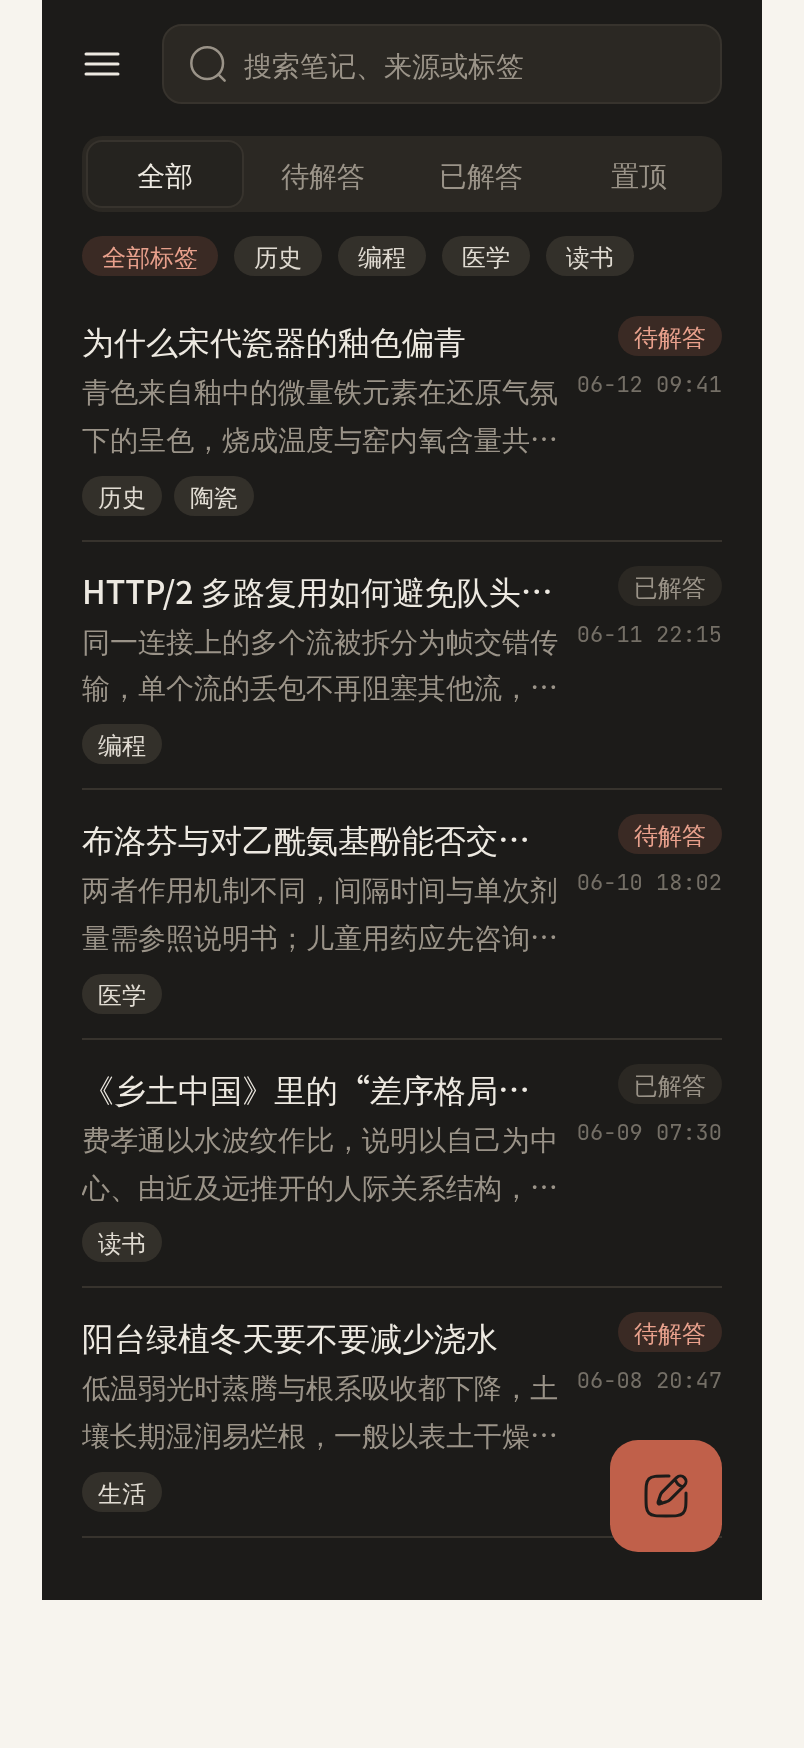
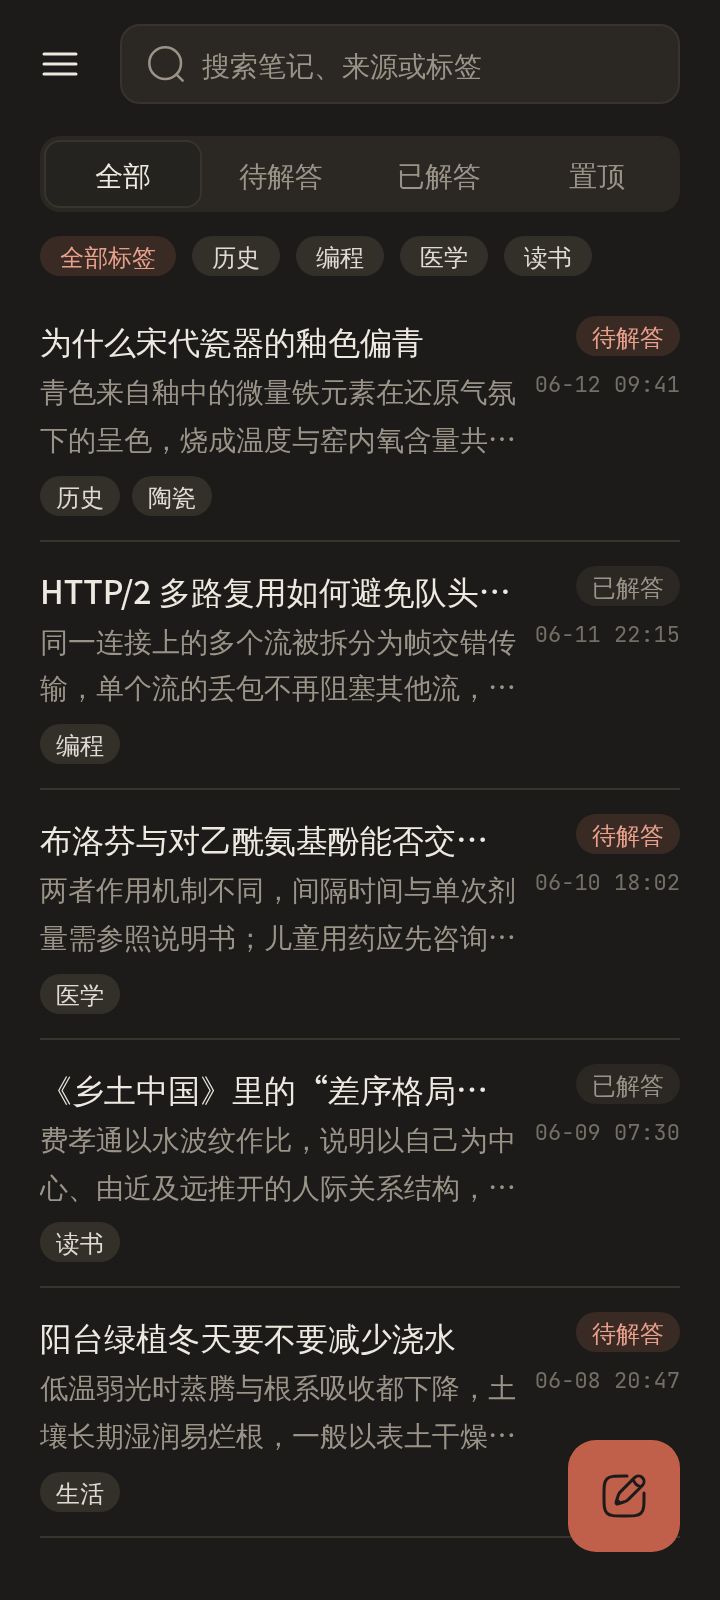
docs: fix screenshots and add bilingual README

diff --git a/README.md b/README.md
@@ -1,10 +1,14 @@
 # 记问 JiWen
 
 <p align="center">
-  <img src="design/icon/app_icon.png" width="96" alt="记问图标">
+  <img src="design/icon/app_icon.png" width="96" alt="JiWen icon">
 </p>
 
-<p align="center">一款完全离线的 Android 个人知识笔记应用，专注于「记录快、找得到、数据不丢」。</p>
+<p align="center">A fully offline Android notebook for personal knowledge — fast capture, Markdown editing, tags, Chinese full-text search, and local backups.</p>
+
+<p align="center">
+  <a href="README.md">English</a> | <a href="README.zh-CN.md">简体中文</a>
+</p>
 
 <p align="center">
   <img src="https://img.shields.io/badge/Flutter-3.47.9-02569B?logo=flutter&logoColor=white" alt="Flutter">
@@ -14,89 +18,87 @@
   <img src="https://img.shields.io/github/v/release/gyluq/JiWen?display_name=tag" alt="Release">
 </p>
 
-## 简介
+## Overview
 
-记问是一款单人自用的本地知识库。它解决手机自带便签的三个问题：**不能搜索、不能分类、不能导出**。
+JiWen is a single-user, local-first notebook for Android. It combines quick capture, Markdown editing and preview, tag-based organization, instant Chinese full-text search with highlighted hits, three list densities, a note outline, a recycle bin, statistics, and JSON / ZIP backup and export. Notes, images, and backups live in the app's private storage, and the app declares no network permission.
 
-所有笔记、标签、图片和备份都保存在应用私有目录中，应用不声明网络权限，也不依赖任何在线服务。核心价值排序为：记录快 > 找得到 > 数据不丢 > 好看。
+## Screenshots
 
-## 界面
-
-| 笔记列表 | 全文搜索 |
+| Note list | Full-text search |
 | --- | --- |
-| <img src="docs/screenshots/note-list.png" width="260" alt="笔记列表"> | <img src="docs/screenshots/search.png" width="260" alt="全文搜索"> |
-| 标题、摘要、标签、更新时间与「待解答 / 已解答」状态一屏可见，支持紧凑、标准、宽松三档密度。 | 支持中文子串搜索，命中片段高亮，并可组合标签、状态与时间范围筛选。 |
+| <img src="docs/screenshots/note-list.png" width="260" alt="Note list"> | <img src="docs/screenshots/search.png" width="260" alt="Full-text search"> |
+| Titles, summaries, tags, update time, and pending / answered status at a glance. Compact, standard, and relaxed densities. | Chinese substring search with highlighted hits, combined with tag, status, and time-range filters. |
 
-| 详情阅读 | Markdown 编辑 |
+| Note detail | Markdown editor |
 | --- | --- |
-| <img src="docs/screenshots/detail.png" width="260" alt="详情阅读"> | <img src="docs/screenshots/editor.png" width="260" alt="Markdown 编辑"> |
-| 统一渲染管线，代码块可复制，长文使用 Sliver 懒加载，并提供 H1~H3 大纲跳转。 | 工具栏覆盖标题、列表、代码块、加粗、斜体、图片与链接，支持撤销重做和编辑 / 预览切换。 |
+| <img src="docs/screenshots/detail.png" width="260" alt="Note detail"> | <img src="docs/screenshots/editor.png" width="260" alt="Markdown editor"> |
+| One rendering pipeline for reading, export, and preview. Long notes load lazily and an H1–H3 outline jumps between sections. | Toolbar for headings, lists, code blocks, bold, italic, images, and links, with undo / redo and an edit / preview toggle. |
 
 <p align="center">
-  <img src="docs/screenshots/note-list-dark.png" width="260" alt="深色模式">
+  <img src="docs/screenshots/note-list-dark.png" width="260" alt="Dark mode">
   <br>
-  深色模式
+  Dark mode
 </p>
 
-## 功能
+## Features
 
-| 模块 | 能力 |
+| Area | What it does |
 | --- | --- |
-| 记录 | 15 秒内完成一次记录；自动保存与进程被杀后的恢复；待解答 / 已解答状态；置顶与收藏 |
-| Markdown | H1~H3、有序 / 无序列表、代码块（等宽字体、横向滚动、一键复制）、加粗、斜体、链接、图片插入与全屏查看 |
-| 图片 | 相册选择或拍照，长边超过 1600px 自动压缩，删除笔记时清理无引用图片 |
-| 标签 | 标签增删改查，一条笔记可挂多个标签，标签页显示笔记数，删除标签不影响笔记 |
-| 检索 | 标题、正文、标签名全文搜索；中文词语中间截取也能命中；结果高亮；进入详情自动定位首个命中位置；最近 20 条搜索历史 |
-| 筛选与排序 | 标签 + 状态 + 时间范围组合筛选；按最近修改、创建时间或标题排序 |
-| 阅读 | 三档列表密度；笔记大纲（H1~H3 章节跳转与当前位置高亮）；深色模式；正文字号调节 |
-| 数据安全 | 回收站保留 30 天；每日首次启动或累计 50 次修改自动备份，保留最近 5 份；手动备份与恢复 |
-| 导入导出 | 单条笔记导出 Markdown；全部笔记导出 ZIP（含 `assets/` 图片）；JSON 全量备份与回导；粘贴文本按分隔符批量拆分导入；导入 `.txt` / `.md` 文件 |
-| 隐私 | 4~6 位 PIN 应用锁，可启用指纹 / 面容解锁；超时自动锁定；锁定时禁止截屏与最近任务缩略图 |
-| 其他 | 单条笔记 Markdown 分享；`[[标题]]` 内部链接跳转；统计面板（笔记总数、待解答数、标签分布） |
+| Capture | Save a note in seconds; autosave and draft recovery; pending / answered status; pin and favorite notes |
+| Markdown | H1–H3, ordered and unordered lists, code blocks (monospace, horizontal scroll, one-tap copy), bold, italic, links, image insertion and full-screen preview |
+| Images | Pick from the gallery or camera; images wider than 1600 px are compressed; unreferenced files are cleaned up when notes are deleted |
+| Tags | Create, rename, and delete tags; attach multiple tags to a note; tag list shows note counts; deleting a tag keeps its notes |
+| Search | Full-text search across titles, bodies, and tag names; Chinese substrings match even from the middle of a word; highlighted hits; opening a note jumps to the first hit; last 20 search terms are kept |
+| Filter and sort | Combine tag, status, and time range; sort by last modified, creation time, or title |
+| Reading | Three list densities; note outline with H1–H3 navigation and current-section highlight; dark mode; body font size levels |
+| Data safety | Recycle bin with 30-day retention; automatic backup on the first launch of a day or after 50 edits, keeping the latest 5; manual backup and restore |
+| Import and export | Export a note as Markdown; export all notes as a ZIP with an `assets/` folder; full JSON backup and restore; split pasted text into multiple notes by delimiter; import `.txt` / `.md` files |
+| Privacy | 4–6 digit PIN lock with optional fingerprint / face unlock; auto-lock timeout; screenshots and recent-task thumbnails blocked while locked |
+| Extras | Share a note as Markdown; `[[title]]` internal links; statistics for note count, pending notes, and tag distribution |
 
-## 技术栈
+## Tech stack
 
-| 层 | 选型 |
+| Layer | Choice |
 | --- | --- |
-| 框架 | Flutter 3.47.9 / Dart 3.13.7，Material 3 |
-| 存储 | `sqlite3` 本地数据库 + 应用私有目录文件存储 |
-| 图片 | `image_picker`、`path_provider` |
-| 导入导出 | `archive`（ZIP）、`file_picker`、`share_plus` |
-| 安全 | `local_auth`（生物识别）、`crypto`、`flutter_secure_storage` 风格的本地 PIN 校验 |
-| 其他 | `url_launcher`、`scrollable_positioned_list` |
+| Framework | Flutter 3.47.9 / Dart 3.13.7 |
+| Storage | `sqlite3` local database plus app-private file storage |
+| Images | `image_picker`, `path_provider` |
+| Import / export | `archive` (ZIP), `file_picker`, `share_plus` |
+| Security | `local_auth` (biometrics), `crypto` |
+| Other | `url_launcher`, `scrollable_positioned_list` |
 
-Markdown 解析、渲染与编辑逻辑均为项目内自研实现，位于 `lib/util/` 与 `lib/widgets/`。
+Markdown parsing, rendering, and editing are implemented in this repository under `lib/util/` and `lib/widgets/`.
 
-## 项目结构
+## Project layout
 
 ```text
 lib/
-├── data/          # 数据库、设置、附件、备份、导入导出、应用锁
-├── models/        # 笔记与标签模型
-├── screens/       # 列表、详情、编辑、搜索、标签、回收站、统计、设置等页面
-├── util/          # Markdown 解析与编辑、搜索高亮、文本导入、时间格式化
-├── widgets/       # 列表项、标签、Markdown 视图、操作面板
-└── theme.dart     # 共享配色与主题
-test/              # Markdown、搜索高亮、数据工具等单元测试
-design/            # 应用图标与 HTML 交互原型
-docs/screenshots/  # README 截图
+├── data/          # database, settings, attachments, backup, import/export, app lock
+├── models/        # note and tag models
+├── screens/       # list, detail, editor, search, tags, trash, statistics, settings
+├── util/          # Markdown parsing and editing, search highlighting, text import, time formatting
+├── widgets/       # list tiles, tag chips, Markdown view, action sheets
+└── theme.dart     # shared palette and theme
+test/              # unit tests for Markdown, search highlighting, and data tools
+design/            # app icon and HTML interaction prototype
+docs/screenshots/  # README screenshots
 ```
 
-## 构建与运行
+## Build and run
 
-环境要求：Flutter 3.47.9（stable）、Dart 3.13.7、Android SDK 36、JDK 17+。
+Requirements: Flutter 3.47.9 (stable), Dart 3.13.7, Android SDK 36, JDK 17 or newer.
 
 ```bash
 flutter pub get
-flutter run                 # 调试运行
-flutter test                # 单元测试
-flutter build apk --release # 产物：build/app/outputs/flutter-apk/app-release.apk
+flutter run                 # debug build on a device or emulator
+flutter test                # unit tests
+flutter build apk --release # output: build/app/outputs/flutter-apk/app-release.apk
 ```
 
-安装包可从 [Releases](https://github.com/gyluq/JiWen/releases) 下载。当前 release 构建沿用 Flutter 模板的 debug 签名，适合自用侧载；如需上架应用商店，请配置自己的 keystore。
+Installable builds are available on the [Releases](https://github.com/gyluq/JiWen/releases) page. Current release builds use the Flutter template's debug signing config, which is fine for personal side-loading; configure your own keystore before publishing to an app store.
 
-## 数据说明
+## Data and privacy
 
-- 数据库、图片与备份全部位于应用私有目录，卸载应用会一并清除，升级或卸载前请先导出备份。
-- 应用未声明 `INTERNET` 权限，不包含账号、云同步或任何在线服务。
-- 忘记 PIN 无法找回，只能重装后通过备份恢复。
+- The database, images, and backups live in the app's private storage. Uninstalling the app removes them, so export a backup before upgrading or uninstalling.
+- The app declares no `INTERNET` permission and contains no accounts, cloud sync, or online services.
+- A forgotten PIN cannot be recovered; reinstall the app and restore from a backup instead.

diff --git a/README.zh-CN.md b/README.zh-CN.md
@@ -1,0 +1,104 @@
+# 记问 JiWen
+
+<p align="center">
+  <img src="design/icon/app_icon.png" width="96" alt="记问图标">
+</p>
+
+<p align="center">一款完全离线的 Android 个人知识笔记应用：快速记录、Markdown 编辑、标签分类、中文全文搜索与本地备份。</p>
+
+<p align="center">
+  <a href="README.md">English</a> | <a href="README.zh-CN.md">简体中文</a>
+</p>
+
+<p align="center">
+  <img src="https://img.shields.io/badge/Flutter-3.47.9-02569B?logo=flutter&logoColor=white" alt="Flutter">
+  <img src="https://img.shields.io/badge/Dart-3.13.7-0175C2?logo=dart&logoColor=white" alt="Dart">
+  <img src="https://img.shields.io/badge/Android-7.0%2B-3DDC84?logo=android&logoColor=white" alt="Android">
+  <img src="https://img.shields.io/badge/Data-offline%20%C2%B7%20SQLite-8A5A3B" alt="Offline SQLite">
+  <img src="https://img.shields.io/github/v/release/gyluq/JiWen?display_name=tag" alt="Release">
+</p>
+
+## 简介
+
+记问是一款完全离线的 Android 个人知识笔记应用。它把快速记录、Markdown 编辑与预览、标签分类、中文全文搜索与高亮、三档列表密度、笔记大纲、回收站、统计，以及 JSON / ZIP 备份与 Markdown 导出集中在一个轻量应用里。笔记、图片与备份全部保存在应用私有目录，应用不声明网络权限。
+
+## 界面
+
+| 笔记列表 | 全文搜索 |
+| --- | --- |
+| <img src="docs/screenshots/note-list.png" width="260" alt="笔记列表"> | <img src="docs/screenshots/search.png" width="260" alt="全文搜索"> |
+| 标题、摘要、标签、更新时间与「待解答 / 已解答」状态一屏可见，支持紧凑、标准、宽松三档密度。 | 支持中文子串搜索与命中高亮，并可组合标签、状态与时间范围筛选。 |
+
+| 详情阅读 | Markdown 编辑 |
+| --- | --- |
+| <img src="docs/screenshots/detail.png" width="260" alt="详情阅读"> | <img src="docs/screenshots/editor.png" width="260" alt="Markdown 编辑"> |
+| 阅读、预览与导出共用同一套渲染管线；长文懒加载，并提供 H1~H3 大纲跳转。 | 工具栏覆盖标题、列表、代码块、加粗、斜体、图片与链接，支持撤销重做和编辑 / 预览切换。 |
+
+<p align="center">
+  <img src="docs/screenshots/note-list-dark.png" width="260" alt="深色模式">
+  <br>
+  深色模式
+</p>
+
+## 功能
+
+| 模块 | 能力 |
+| --- | --- |
+| 记录 | 几秒内完成一次记录；自动保存与进程被杀后的恢复；待解答 / 已解答状态；置顶与收藏 |
+| Markdown | H1~H3、有序 / 无序列表、代码块（等宽字体、横向滚动、一键复制）、加粗、斜体、链接、图片插入与全屏查看 |
+| 图片 | 相册选择或拍照，长边超过 1600px 自动压缩，删除笔记时清理无引用图片 |
+| 标签 | 标签增删改查，一条笔记可挂多个标签，标签页显示笔记数，删除标签不影响笔记 |
+| 检索 | 标题、正文、标签名全文搜索；中文词语中间截取也能命中；结果高亮；进入详情自动定位首个命中位置；保留最近 20 条搜索历史 |
+| 筛选与排序 | 标签 + 状态 + 时间范围组合筛选；按最近修改、创建时间或标题排序 |
+| 阅读 | 三档列表密度；笔记大纲（H1~H3 章节跳转与当前位置高亮）；深色模式；正文字号调节 |
+| 数据安全 | 回收站保留 30 天；每日首次启动或累计 50 次修改自动备份，保留最近 5 份；手动备份与恢复 |
+| 导入导出 | 单条笔记导出 Markdown；全部笔记导出 ZIP（含 `assets/` 图片）；JSON 全量备份与回导；粘贴文本按分隔符批量拆分导入；导入 `.txt` / `.md` 文件 |
+| 隐私 | 4~6 位 PIN 应用锁，可启用指纹 / 面容解锁；超时自动锁定；锁定时禁止截屏与最近任务缩略图 |
+| 其他 | 单条笔记 Markdown 分享；`[[标题]]` 内部链接跳转；统计面板（笔记总数、待解答数、标签分布） |
+
+## 技术栈
+
+| 层 | 选型 |
+| --- | --- |
+| 框架 | Flutter 3.47.9 / Dart 3.13.7 |
+| 存储 | `sqlite3` 本地数据库 + 应用私有目录文件存储 |
+| 图片 | `image_picker`、`path_provider` |
+| 导入导出 | `archive`（ZIP）、`file_picker`、`share_plus` |
+| 安全 | `local_auth`（生物识别）、`crypto` |
+| 其他 | `url_launcher`、`scrollable_positioned_list` |
+
+Markdown 解析、渲染与编辑逻辑均为项目内实现，位于 `lib/util/` 与 `lib/widgets/`。
+
+## 项目结构
+
+```text
+lib/
+├── data/          # 数据库、设置、附件、备份、导入导出、应用锁
+├── models/        # 笔记与标签模型
+├── screens/       # 列表、详情、编辑、搜索、标签、回收站、统计、设置等页面
+├── util/          # Markdown 解析与编辑、搜索高亮、文本导入、时间格式化
+├── widgets/       # 列表项、标签、Markdown 视图、操作面板
+└── theme.dart     # 共享配色与主题
+test/              # Markdown、搜索高亮、数据工具等单元测试
+design/            # 应用图标与 HTML 交互原型
+docs/screenshots/  # README 截图
+```
+
+## 构建与运行
+
+环境要求：Flutter 3.47.9（stable）、Dart 3.13.7、Android SDK 36、JDK 17 或更高版本。
+
+```bash
+flutter pub get
+flutter run                 # 在真机或模拟器上调试运行
+flutter test                # 单元测试
+flutter build apk --release # 产物：build/app/outputs/flutter-apk/app-release.apk
+```
+
+安装包可从 [Releases](https://github.com/gyluq/JiWen/releases) 下载。当前 release 构建沿用 Flutter 模板的 debug 签名，适合自用侧载；如需上架应用商店，请配置自己的 keystore。
+
+## 数据说明
+
+- 数据库、图片与备份全部位于应用私有目录，卸载应用会一并清除，升级或卸载前请先导出备份。
+- 应用未声明 `INTERNET` 权限，不包含账号、云同步或任何在线服务。
+- 忘记 PIN 无法找回，只能重装后通过备份恢复。
